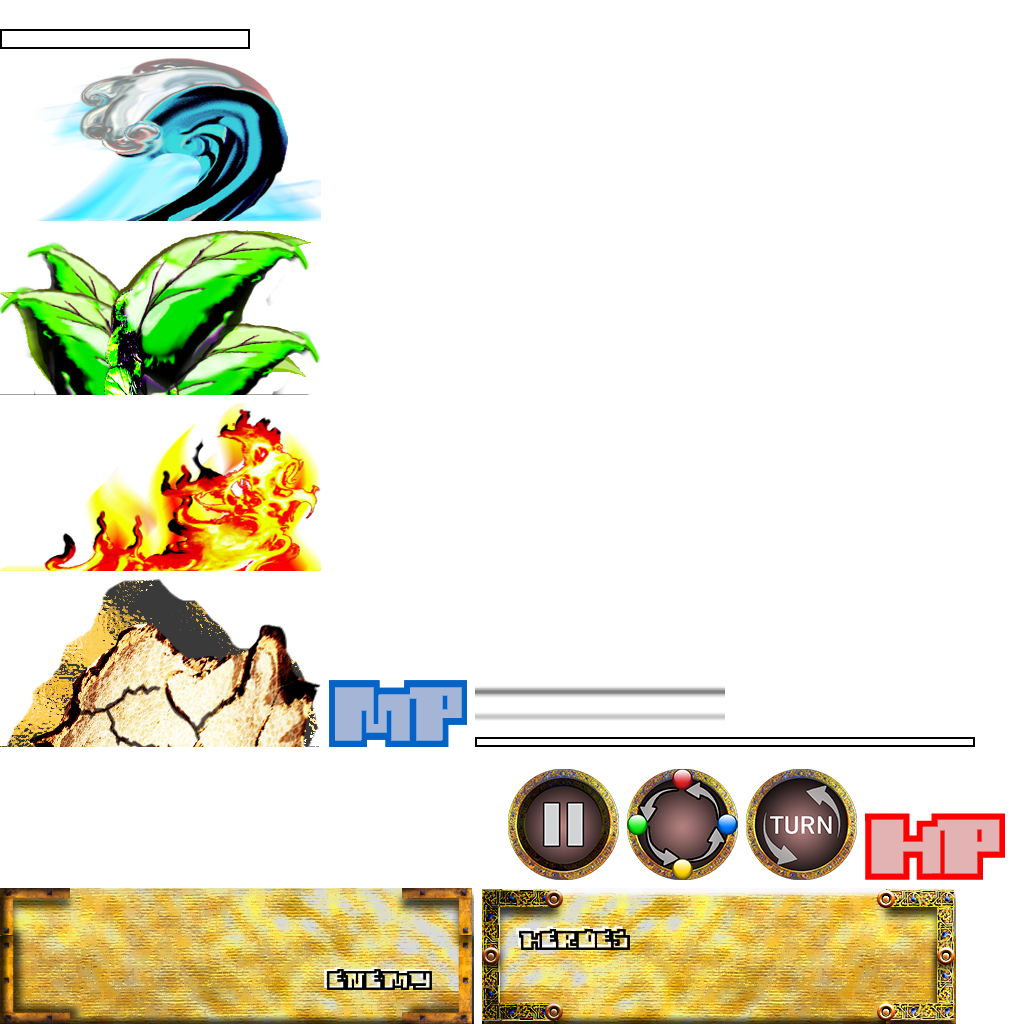
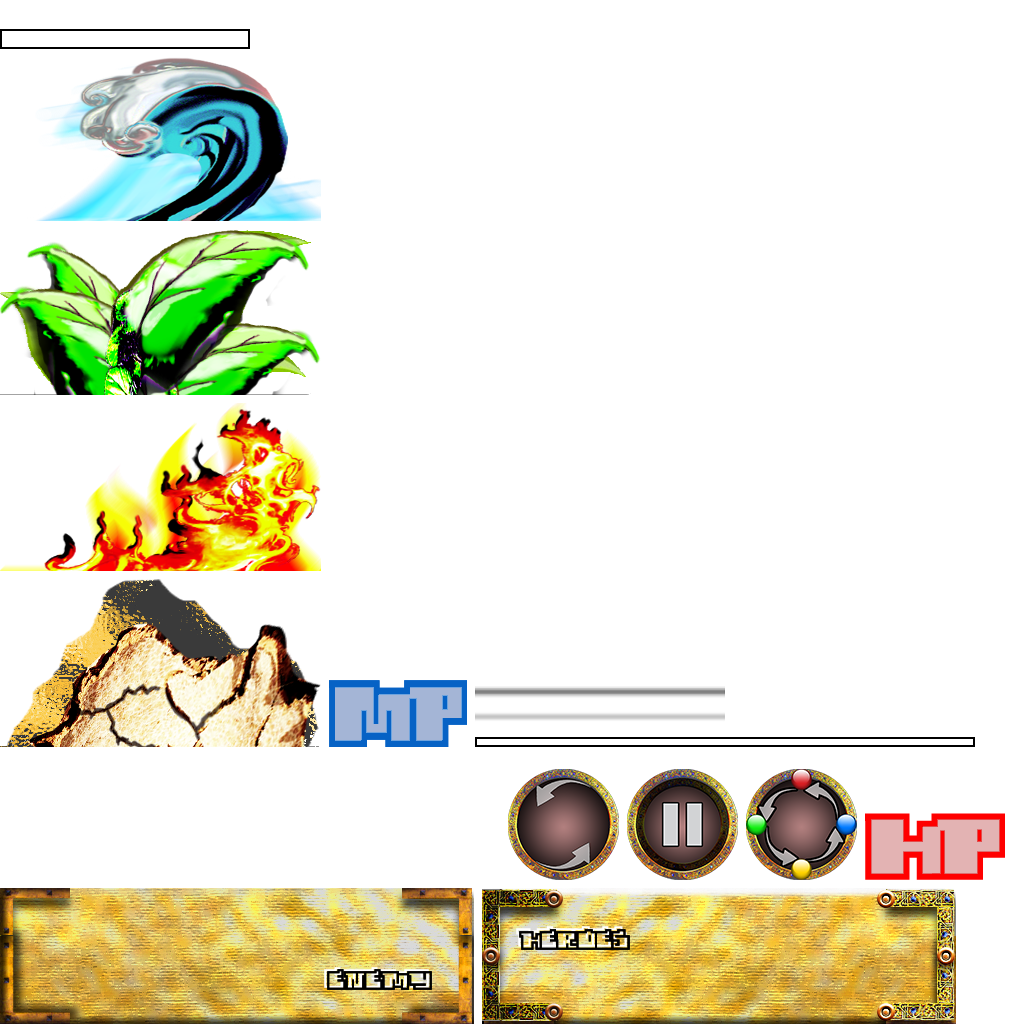
Play scene change back to ChunksTight font with inner fill

Changed region(s): [[0.5, 0.75, 0.8438, 0.875]]

diff --git a/Assets/Scripts/Play/UI/ButtonMonoBehaviour/SpinButton.cs b/Assets/Scripts/Play/UI/ButtonMonoBehaviour/SpinButton.cs
@@ -11,6 +11,7 @@ public class SpinButton : UIButtonMonoBehaviour
     float timeMove = 1.5f;
 
     UILabel spinAmountLabel;
+    UIWidget spinAmountLabelWidget;
     TweenRotation tweenRotation;
     #endregion
 
@@ -23,9 +24,15 @@ public class SpinButton : UIButtonMonoBehaviour
             spinAmount = value * randomNumSecurity;
             PlayerPrefs.SetInt("SpinAmount", SpinAmount);
             if (SpinAmount > 0)
+            {
+                spinAmountLabelWidget.width = 25;
                 spinAmountLabel.text = SpinAmount.ToString();
+            }
             else
-                spinAmountLabel.text = "Buy";
+            {
+                spinAmountLabelWidget.width = 50;
+                spinAmountLabel.text = "BUY";
+            }
         }
     }
 
@@ -38,6 +45,7 @@ public class SpinButton : UIButtonMonoBehaviour
         base.Start();
         randomNumSecurity = Random.Range(0, 1000);
         spinAmountLabel = GetComponentInChildren<UILabel>();
+        spinAmountLabelWidget = spinAmountLabel.GetComponent<UIWidget>();
         tweenRotation = GetComponent<TweenRotation>();
         tweenRotation.duration = timeMove;
         //SpinAmount = PlayerPrefs.GetInt("SpinAmount", 3);

diff --git a/Assets/Scripts/Play/UI/HpPopUp.cs b/Assets/Scripts/Play/UI/HpPopUp.cs
@@ -46,9 +46,9 @@ public class HpPopUp : MonoBehaviour
         Vector3 targetScreenPoint = mainCamera.WorldToScreenPoint(targetPos),
             popUpPos = uiCamara.ScreenToWorldPoint(targetScreenPoint);
 
-        transform.position = new Vector3(popUpPos.x, popUpPos.y + 0.5f);
+        transform.position = new Vector3(popUpPos.x, popUpPos.y + 0.4f);
         thisTweenPosition.SetEndToCurrentValue();
-        transform.position = new Vector3(popUpPos.x, popUpPos.y + 0.3f);
+        transform.position = new Vector3(popUpPos.x, popUpPos.y + 0.2f);
         thisTweenPosition.SetStartToCurrentValue();
         thisTweenAlpha.ResetToBeginning();
         thisTweenPosition.ResetToBeginning();
